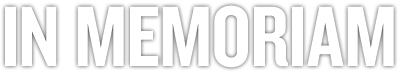
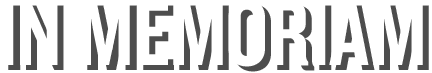
design refinements, added play duration to audio toolbar

diff --git a/less/memoriam.less b/less/memoriam.less
@@ -1,9 +1,9 @@
 // Global variables
 @img-root: '../img';
 @screen-height: 1100px;
-@slide-bg-color: #111;
-@shade-bg: rgba(0,0,0,.6);
-@shadow: 1px 2px 10px rgba(0,0,0,.6);
+@slide-bg-color: #202020;
+@shade-bg: rgba(50,50,50,.6);
+@shadow: 1px 2px 10px rgba(32,32,32,.7);
 
 
 // TEMPLATE
@@ -12,18 +12,18 @@
 
 // TITLE SCREEN
 #title-inner { 
-background: @slide-bg-color url(http://placekitten.com/800/600);
-	-webkit-background-size:cover;
-	-moz-background-size:cover;
-	background-size:cover;
+	background: @slide-bg-color url('@{img-root}/black_thread.png') repeat;
+	/* Background pattern via Subtle Patterns: http://subtlepatterns.com/black-thread/ */
 	height: @screen-height;
-	padding-top: 20px;
+	padding-top: 60px;
 }
 #title-button {
 	display: block;
-	width: 60%;
+	width: 50%;
 	margin: 0 auto;
 	background: @shade-bg;
+	border: 2px solid rgba(60,60,60,.6);
+	border-radius: 6px;
 	padding: 30px;
 	color: #8b9094;
 	text-decoration: none;
@@ -51,8 +51,30 @@ background: @slide-bg-color url(http://placekitten.com/800/600);
 #audio-navbar {
 	position: static;
 	z-index: 1000;
-	height: 40px;
+	height: 50px;
+	padding: 0 20px;
+	overflow: hidden;
 	background-color: @slide-bg-color;
+	
+	:after { content: "."; display: block; height: 0; clear: both; visibility: hidden; }
+	.branding { 
+		display: inline-block; 
+		padding-right: 20px;
+		padding-top: 13px;
+		float: left;
+	}
+	.branding h2 { 
+		background: url('@{img-root}/hed-in-memoriam-small.png') no-repeat;
+		width: 148px; height: 25px;
+		text-indent: -9999px;
+		margin: 0;
+	}
+}
+#audio {
+	float: left;
+	height: 41px;
+	padding-top: 9px;
+	background-color: #333;
 }
 
 
@@ -62,7 +84,7 @@ background: @slide-bg-color url(http://placekitten.com/800/600);
 	color: #fff; font-size: 14px; text-transform: uppercase; font-weight: bold;
 	z-index: 1000; padding: 10px;
 	position: absolute;
-	top: 1215px;
+	top: 1255px;
 }
 .nav-btn:hover {
 	background-color: @slide-bg-color;

diff --git a/www/css/jplayer-black-and-yellow.css b/www/css/jplayer-black-and-yellow.css
@@ -23,7 +23,7 @@ div.jp-audio {
 }
 
 div.jp-audio {
-	width: 360px;
+	width: 400px;
 }
 
 div.jp-interface {
@@ -78,7 +78,7 @@ div.jp-progress-container {
 	position: absolute;
 	top: 0;
 	left: 34px;
-	width: 225px;
+	width: 125px;
 	height: 6px;
 	padding: 12px 10px;
 }
@@ -87,7 +87,7 @@ div.jp-progress {
 	overflow:hidden;
 }
 div.jp-audio div.jp-type-single div.jp-progress {
-	width: 223px;
+	width: 125px;
 	height: 7px;
 	padding: 1px;
 	background: url("../img/jplayer-black-blue.png") 0 -192px repeat-x ;
@@ -120,7 +120,7 @@ div.jp-seeking-bg {
 div.jp-volume-bar-container {
 	position: absolute;
 	top: 0;
-	left: 281px;
+	left: 323px;
 	width: 40px;
 	height: 6px;
 	padding: 12px 10px;
@@ -182,4 +182,12 @@ div.jp-jplayer {
 
 div.jp-jplayer {
 	background-color: #000000;
+}
+
+div.jp-current-time {
+	position: absolute;
+	left: 190px;
+	top: 6px;
+	width: 40px;
+	font-size: 11px;
 }

diff --git a/www/js/app.js b/www/js/app.js
@@ -56,6 +56,7 @@ $(document).ready(function() {
 							scrollElement: $s,
 							scrollTarget: '#panel' + k
 						});
+						active_slide = k;
 						return false;
 					},
 					onEnd: function( options ) {}
@@ -86,7 +87,6 @@ $(document).ready(function() {
 	$next.click(function() {
 		if (active_slide < num_slides) {
 			active_slide++;
-			console.log(active_slide);
 			// jump to the next cuepoint
 			var cue = slideshow_data[active_slide]['cue_start'];
 			$player.jPlayer("play", slideshow_data[active_slide]['cue_start']);

diff --git a/templates/index.html b/templates/index.html
@@ -30,6 +30,10 @@
 </div>
 
 <div id="audio-navbar">
+	<div class="branding">
+		<h2>In Memoriam: 2012</h2>
+	</div>
+
 	<div id="audio">
 	
 		<div id="pop-audio" class="jp-jplayer"></div>
@@ -59,6 +63,8 @@
 								<div class="jp-volume-bar-value"></div>
 							</div>
 						</div>
+						
+						<div class="jp-current-time"></div>
 					</div>
 				</div>
 			</div>
